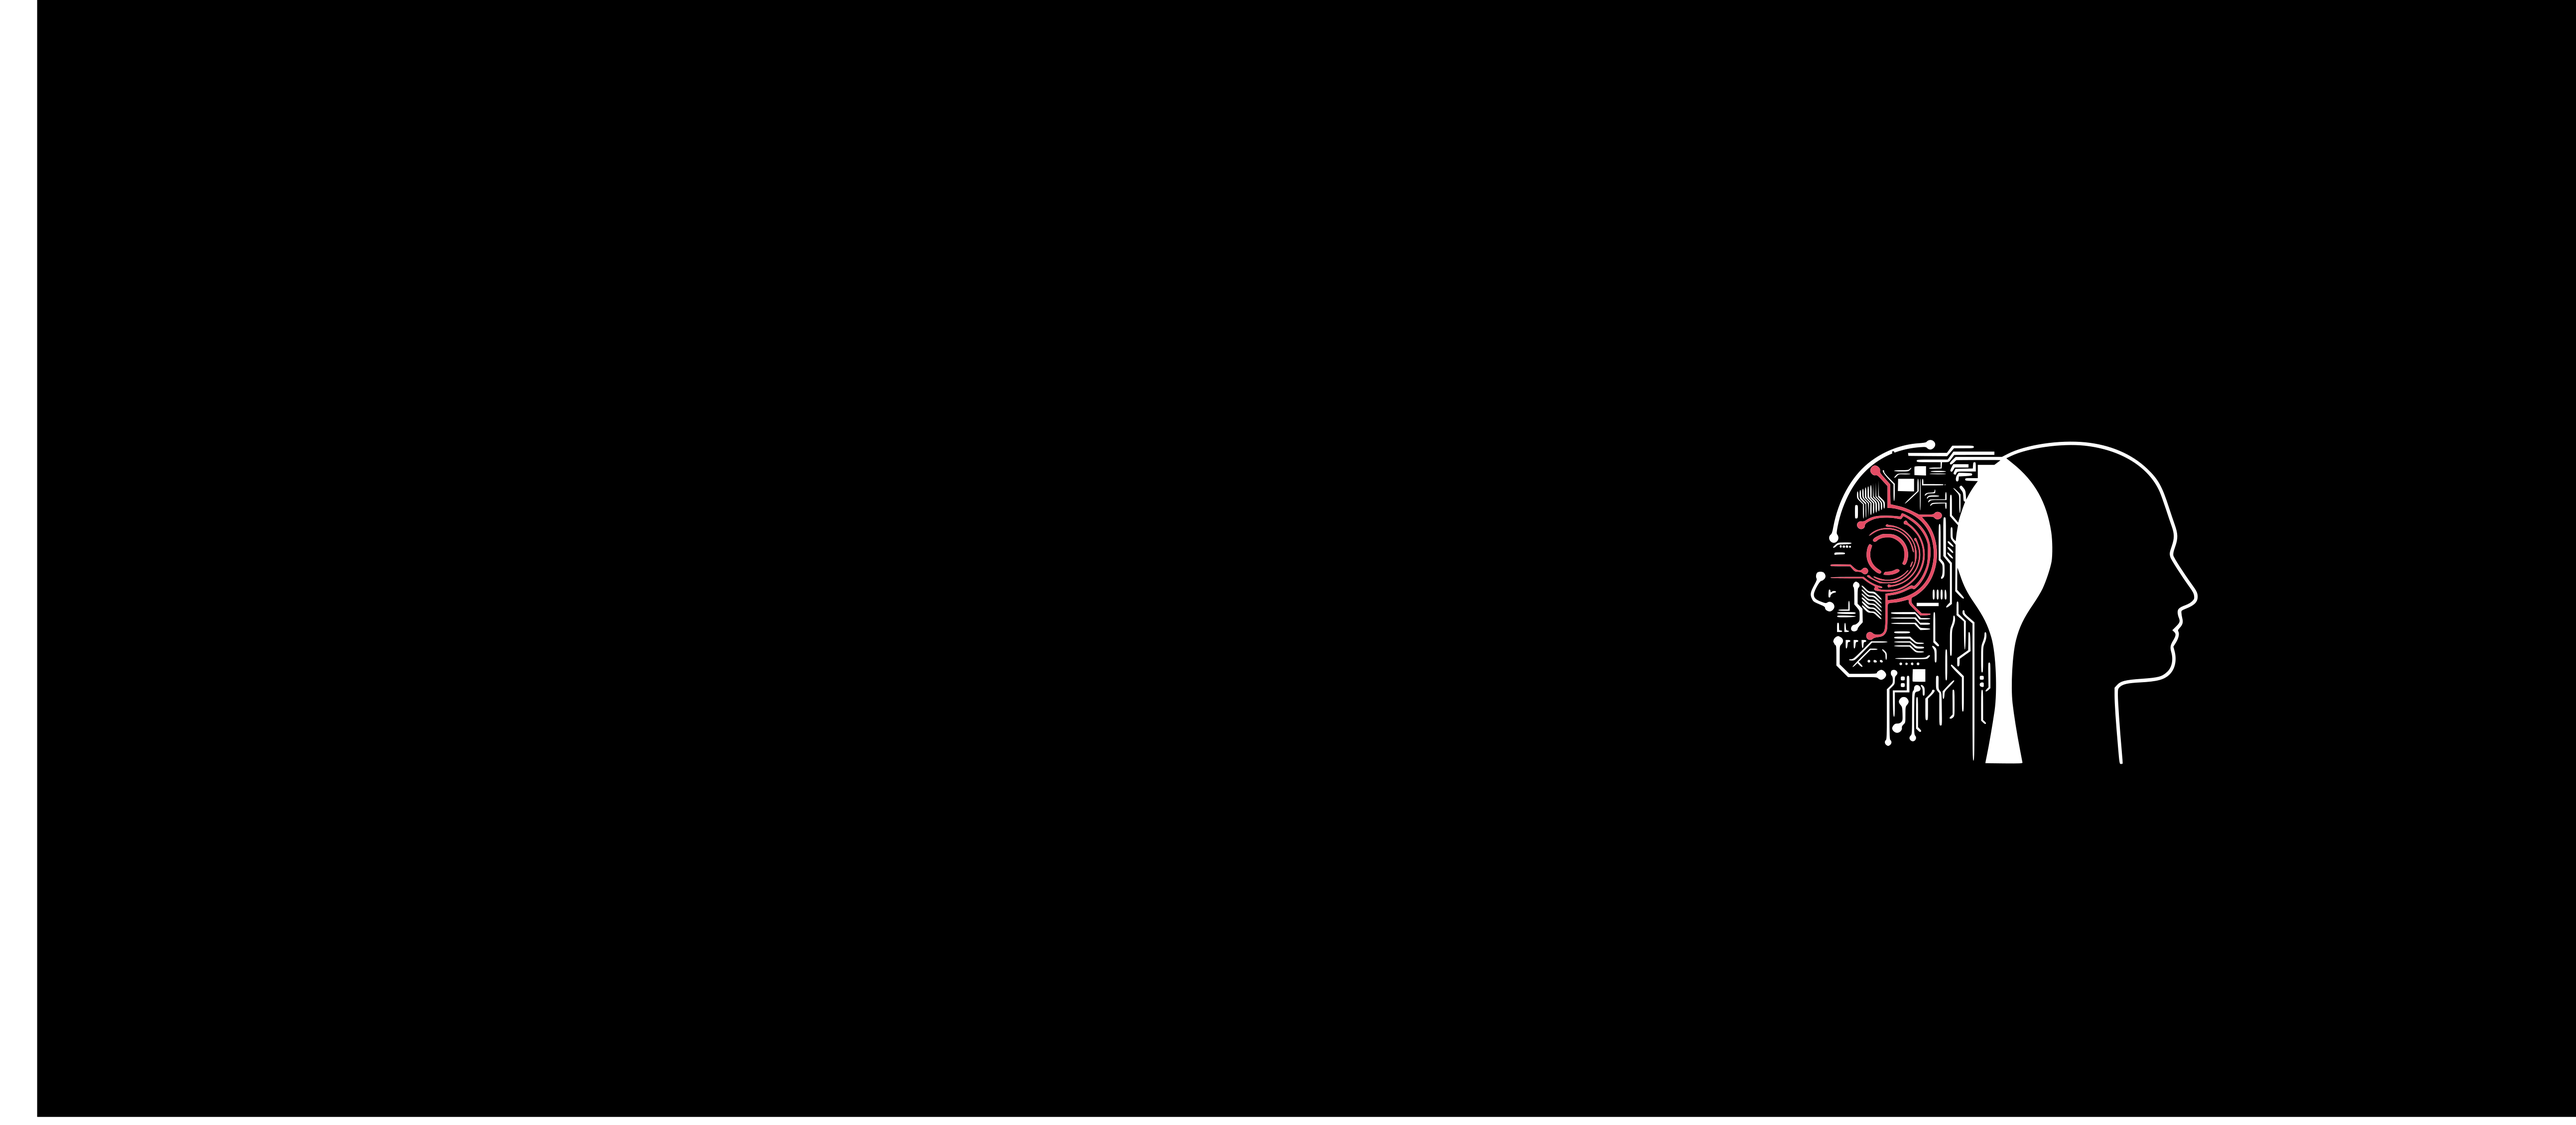
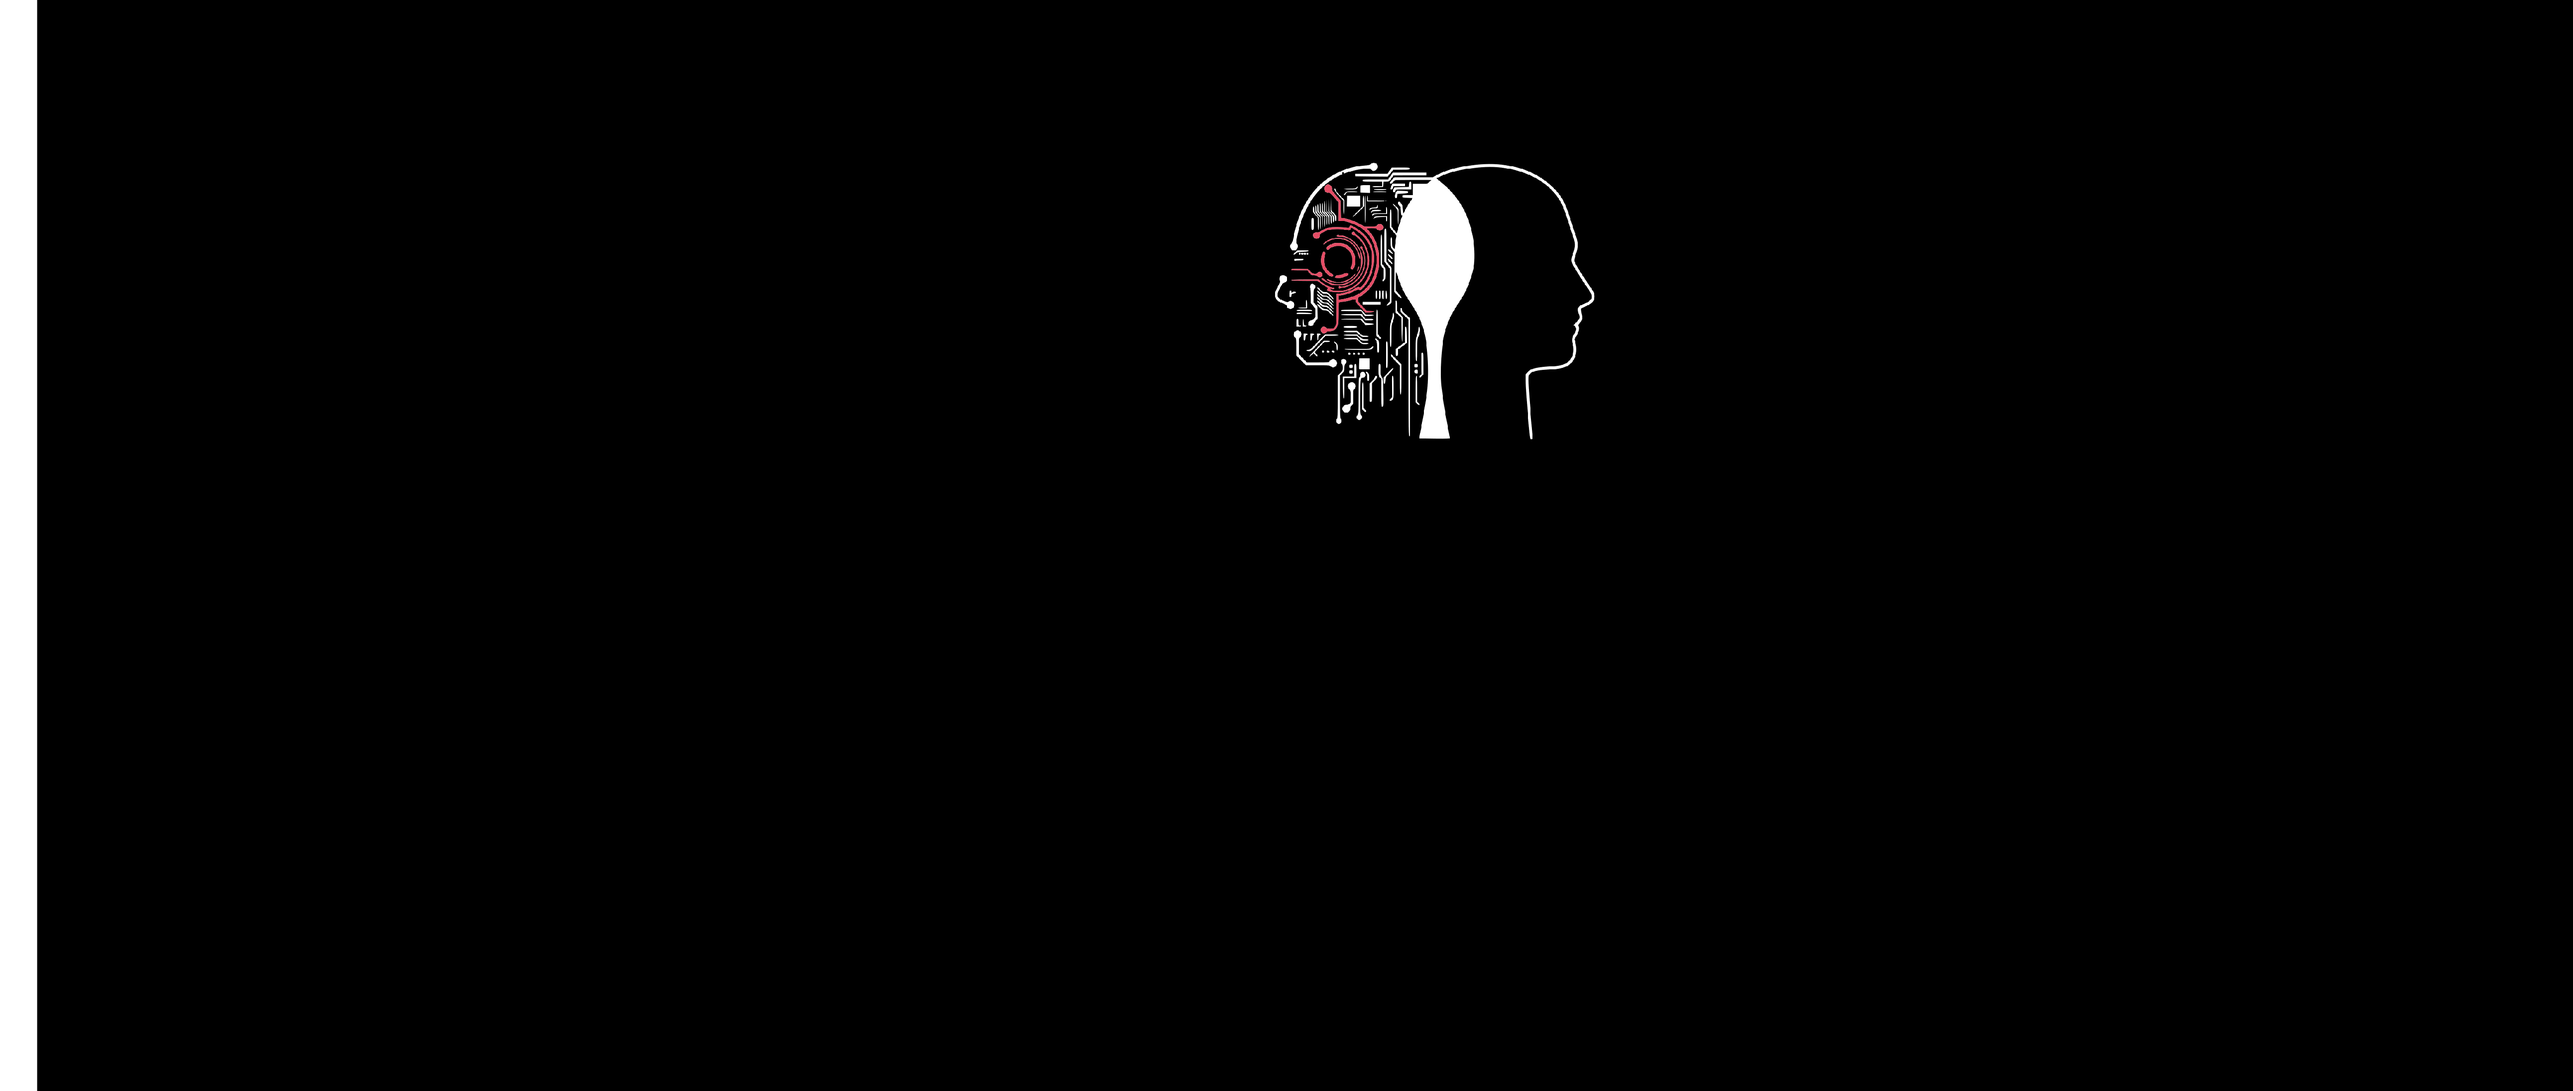
Final changes 2022-02-08

Changed region(s): [[0.0, 0.9927, 1.0, 1.0], [0.7165, 0.3723, 0.81, 0.6825], [0.4985, 0.1551, 0.5919, 0.4033]]

diff --git a/index.html b/index.html
@@ -47,10 +47,18 @@
 				<header class="container" id=top>
 					<h4 style="letter-spacing: 5px; margin-top: 5%;">this_is_me</h4>
 				</header>
-				
+				<!-- background-attachment: fixed;
+				background-position: center center;
+				background-size: cover;
+				box-shadow: 0 0.25em 0.5em 0 rgba(0, 0, 0, 0.25);
+				height: 100vh;
+				overflow: hidden;
+				position: relative; -->
+
+
 			<!-- Two -->
 				<section id="two" class="spotlight style1 right">
-					<span class="image fit main" style="width: 100%;"><img src="images/banner.jpg" alt=""></span>
+					<span class="image fit main" style="background-size:initial"><img src="images/Wide.png" alt=""></span>
 					<div class="content">
 						<header>
 						<h3>GREETINGS!</h3>
@@ -79,7 +87,7 @@
 						<p>Every designer, every artist, every creator in the history of time lived by these words:</p>
 						<pre><code>"Show; don't tell." </code></pre>
 						<p>Reporting tells a story and gives insight to the user to make better decisions. Our world is filled with data, but data in itself is useless, one needs to transform and shape it to be usable. Luckily; that's where I come in!</p>
-						<p>So without further ado please have a look at some of my creations...</p>
+						<p>So without further ado please continue to scroll...</p>
 						<ul class="icons">
 							<li><a href="https://www.linkedin.com/in/daru-broodryk-609192139/" class="icon brands fa-linkedin-in"><span class="label">LinkedIn</span></a></li>
 							<li><a href="https://github.com/DataWithDaru" class="icon brands fa-github"><span class="label">GitHub</span></a></li>

diff --git a/assets/css/main.css b/assets/css/main.css
@@ -2919,7 +2919,7 @@ input, select, textarea {
 		}
 
 			.image.fit img {
-				width: 100%;
+				width: 80%;
 			}
 
 /* List */
@@ -3322,8 +3322,9 @@ input, select, textarea {
 
 	.spotlight {
 		background-attachment: fixed;
-		background-position: center center;
-		background-size: cover;
+		background-position: left center;
+		background-repeat: no-repeat;
+		background-size: initial;
 		box-shadow: 0 0.25em 0.5em 0 rgba(0, 0, 0, 0.25);
 		height: 100vh;
 		overflow: hidden;
